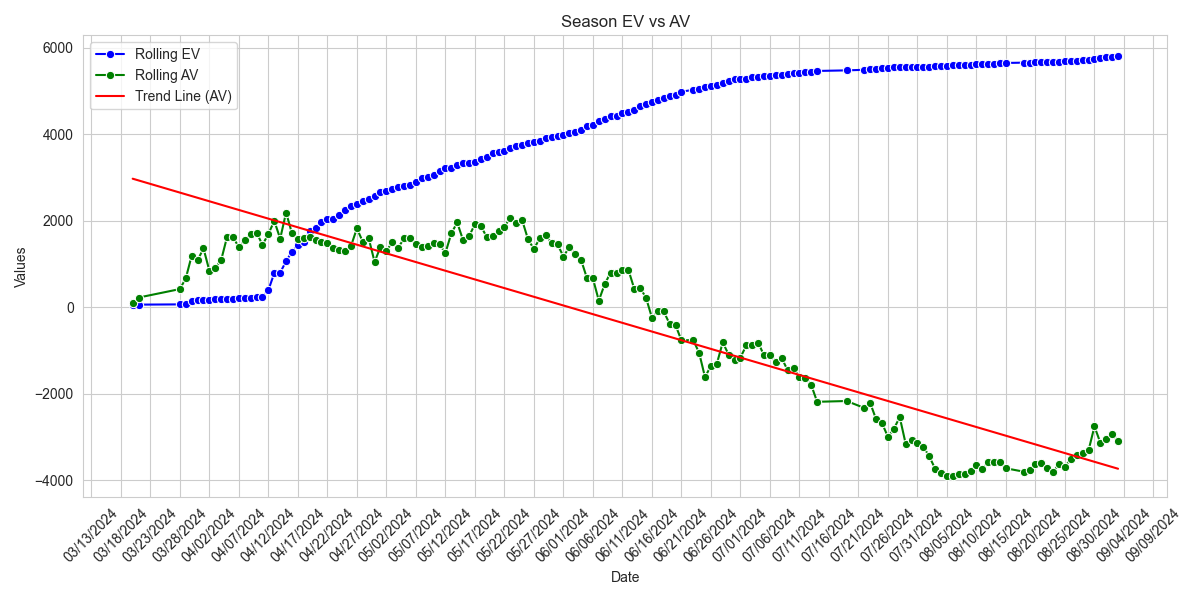
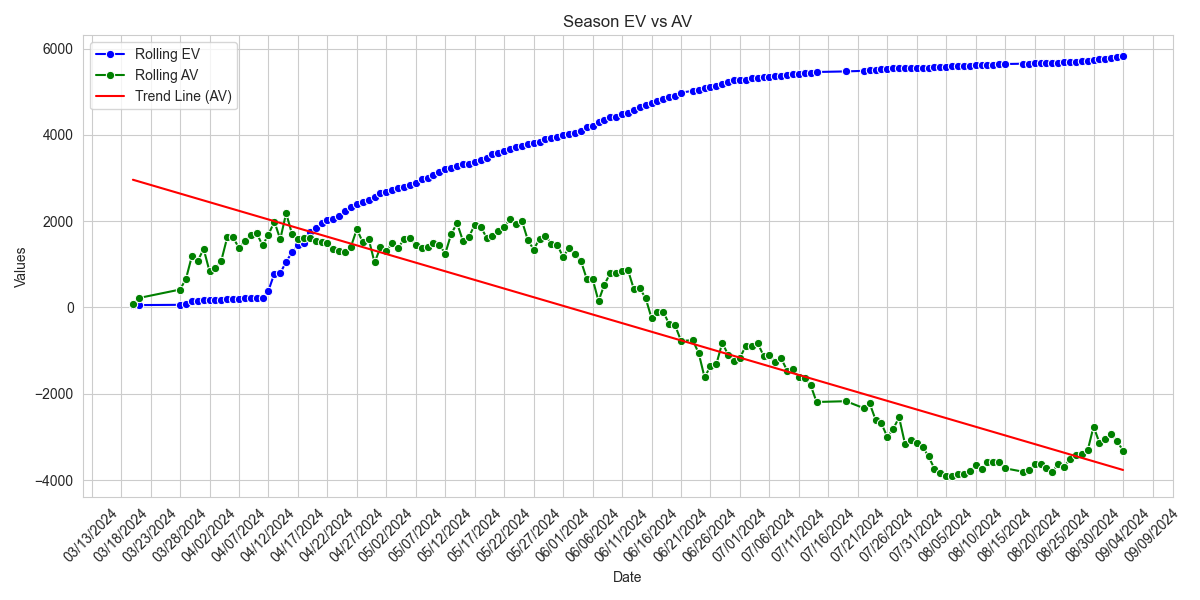
web

diff --git a/index.html b/index.html
@@ -1,1 +1,1 @@
-<html><head><meta name="viewport" content="width=device-width, initial-scale=1"><meta http-equiv="Cache-Control" content="no-cache, no-store, must-revalidate"><meta http-equiv="Pragma" content="no-cache"><meta http-equiv="Expires" content="0"><title>MLB Shit</title><link rel="stylesheet" type="text/css" href="styles.css"></head><body><p><b>Daily Picks</b></p><table><tr><th>Date</th><th>Team</th><th>Price</th><th>Bet</th><th>Win</th><th>WP</th><th>EV</th><th>Type</th><th>Result</th></tr><tr><td>09/04/2024</td><td><img src='https://www.mlbstatic.com/team-logos/143.svg' height=30 width=30></td><td>-130</td><td>$91.00</td><td>$70.00</td><td>59.2%</td><td>4.3%</td><td>Fav</td><td></td></td><tr><td>09/04/2024</td><td><img src='https://www.mlbstatic.com/team-logos/142.svg' height=30 width=30></td><td>-115</td><td>$82.25</td><td>$71.52</td><td>54.4%</td><td>1.4%</td><td>Fav</td><td></td></td><tr><td>09/04/2024</td><td><img src='https://www.mlbstatic.com/team-logos/147.svg' height=30 width=30></td><td>-110</td><td>$89.25</td><td>$81.14</td><td>57.4%</td><td>8.6%</td><td>Fav</td><td></td></td><tr><td>09/04/2024</td><td><img src='https://www.mlbstatic.com/team-logos/119.svg' height=30 width=30></td><td>-198</td><td>$109.50</td><td>$55.30</td><td>68.9%</td><td>4.0%</td><td>Fav</td><td></td></td><tr><td>09/04/2024</td><td><img src='https://www.mlbstatic.com/team-logos/116.svg' height=30 width=30></td><td>+160</td><td>$59.75</td><td>$95.60</td><td>39.0%</td><td>0.8%</td><td>Dog</td><td></td></td><tr><th colspan=9><B>SUMMARY: $431.75 in play to win $373.56</B></th></tr><tr><th colspan=9><B>LAST UPDATED: 09/04/2024 08:31 AM</B></th></tr></table><p><b>Monthly Totals</b></p><table><tr><th>Date</th><th>Profit</th><th>W/L</th><th>Favs</th><th>Dogs</th><th>Fav $</th><th>Dog $</th></tr><tr><td>09/01/2024</td><td>$81.67</td><td>4-2</td><td>4-1</td><td>0-1</td><td>$157.67</td><td>$-76.00</td></td><tr><td>09/02/2024</td><td>$129.65</td><td>2-0</td><td>2-0</td><td>0</td><td>$129.65</td><td>$0.00</td></td><tr><td>09/03/2024</td><td>$-177.96</td><td>3-5</td><td>1-1</td><td>2-4</td><td>$-40.36</td><td>$-137.60</td></td><tr><th colspan=7>TOTALS</th></tr><tr><th colspan=2>Monthly Profit</th><th colspan=2>W%</th><th>Fav W%</th><th>Dog W%</th><th>Predicted Upset W%</th></tr><tr><td colspan=2>$33.36</td><td colspan=2>56.2%</td><td>77.8%</td><td>28.6%</td><td>33.3%</td></tr></table><p><b>Season Totals</b></p><table width="30%"><tr><th width="25%">Month</th><th width="25%">Profit</th><th width="25%" colspan=2>Bankroll Growth</th></tr><tr><td>March</td><td>$1,077.72</td><td colspan=2>13.4715%</td></td><tr><td>April</td><td>$-35.26</td><td colspan=2>-0.44075%</td></td><tr><td>May</td><td>$410.27</td><td colspan=2>5.128375%</td></td><tr><td>June</td><td>$-2,683.52</td><td colspan=2>-33.544%</td></td><tr><td>July</td><td>$-1,918.74</td><td colspan=2>-23.98425%</td></td><tr><td>August</td><td>$11.53</td><td colspan=2>0.144125%</td></td><tr><td>September</td><td>$33.36</td><td colspan=2>0.417%</td></td><tr><td><b><i>TOTAL</i></b></td><td><b><i>$-3,104.64</i></b></td><td colspan=2><b><i>-38.808%</i></b></td></td><tr><th colspan=4>Performance</th></tr><tr><th>Season W%</th><th>Fav W%</th><th>Dog W%</th><th>Predicted Upset W%</th></tr><tr><td>51.0%</td><td>57.1%</td><td>45.1%</td><td>48.1%</td></tr></table><p><table><tr><td><img class="chart" src="images/ev_graph.png"></td></tr></table></p></body></html>
+<html><head><meta name="viewport" content="width=device-width, initial-scale=1"><meta http-equiv="Cache-Control" content="no-cache, no-store, must-revalidate"><meta http-equiv="Pragma" content="no-cache"><meta http-equiv="Expires" content="0"><title>MLB Shit</title><link rel="stylesheet" type="text/css" href="styles.css"></head><body><p><b>Daily Picks</b></p><table><tr><th>Date</th><th>Team</th><th>Price</th><th>Bet</th><th>Win</th><th>WP</th><th>EV</th><th>Type</th><th>Result</th></tr><tr><td>09/05/2024</td><td><img src='https://www.mlbstatic.com/team-logos/142.svg' height=30 width=30></td><td>-142</td><td>$91.25</td><td>$64.26</td><td>59.7%</td><td>1.6%</td><td>Fav</td><td></td></td><tr><td>09/05/2024</td><td><img src='https://www.mlbstatic.com/team-logos/109.svg' height=30 width=30></td><td>+130</td><td>$68.50</td><td>$89.05</td><td>45.0%</td><td>2.4%</td><td>Dog</td><td></td></td><tr><td>09/05/2024</td><td><img src='https://www.mlbstatic.com/team-logos/143.svg' height=30 width=30></td><td>-238</td><td>$114.25</td><td>$48.00</td><td>71.5%</td><td>1.8%</td><td>Fav</td><td></td></td><tr><td>09/05/2024</td><td><img src='https://www.mlbstatic.com/team-logos/120.svg' height=30 width=30></td><td>+100</td><td>$75.25</td><td>$75.25</td><td>50.2%</td><td>0.3%</td><td>Dog</td><td></td></td><tr><td>09/05/2024</td><td><img src='https://www.mlbstatic.com/team-logos/108.svg' height=30 width=30></td><td>+145</td><td>$66.00</td><td>$95.70</td><td>43.1%</td><td>3.7%</td><td>Dog</td><td></td></td><tr><th colspan=9><B>SUMMARY: $415.25 in play to win $372.26</B></th></tr><tr><th colspan=9><B>LAST UPDATED: 09/05/2024 08:48 AM</B></th></tr></table><p><b>Monthly Totals</b></p><table><tr><th>Date</th><th>Profit</th><th>W/L</th><th>Favs</th><th>Dogs</th><th>Fav $</th><th>Dog $</th></tr><tr><td>09/01/2024</td><td>$81.67</td><td>4-2</td><td>4-1</td><td>0-1</td><td>$157.67</td><td>$-76.00</td></td><tr><td>09/02/2024</td><td>$129.65</td><td>2-0</td><td>2-0</td><td>0</td><td>$129.65</td><td>$0.00</td></td><tr><td>09/03/2024</td><td>$-177.96</td><td>3-5</td><td>1-1</td><td>2-4</td><td>$-40.36</td><td>$-137.60</td></td><tr><td>09/04/2024</td><td>$-212.67</td><td>3-5</td><td>2-4</td><td>1-1</td><td>$-231.17</td><td>$18.50</td></td><tr><th colspan=7>TOTALS</th></tr><tr><th colspan=2>Monthly Profit</th><th colspan=2>W%</th><th>Fav W%</th><th>Dog W%</th><th>Predicted Upset W%</th></tr><tr><td colspan=2>$-179.31</td><td colspan=2>50.0%</td><td>60.0%</td><td>33.3%</td><td>50.0%</td></tr></table><p><b>Season Totals</b></p><table width="30%"><tr><th width="25%">Month</th><th width="25%">Profit</th><th width="25%" colspan=2>Bankroll Growth</th></tr><tr><td>March</td><td>$1,077.72</td><td colspan=2>13.4715%</td></td><tr><td>April</td><td>$-35.26</td><td colspan=2>-0.44075%</td></td><tr><td>May</td><td>$410.27</td><td colspan=2>5.128375%</td></td><tr><td>June</td><td>$-2,683.52</td><td colspan=2>-33.544%</td></td><tr><td>July</td><td>$-1,918.74</td><td colspan=2>-23.98425%</td></td><tr><td>August</td><td>$11.53</td><td colspan=2>0.144125%</td></td><tr><td>September</td><td>$-179.31</td><td colspan=2>-2.241375%</td></td><tr><td><b><i>TOTAL</i></b></td><td><b><i>$-3,317.31</i></b></td><td colspan=2><b><i>-41.466375%</i></b></td></td><tr><th colspan=4>Performance</th></tr><tr><th>Season W%</th><th>Fav W%</th><th>Dog W%</th><th>Predicted Upset W%</th></tr><tr><td>50.9%</td><td>56.9%</td><td>45.2%</td><td>48.3%</td></tr></table><p><table><tr><td><img class="chart" src="images/ev_graph.png"></td></tr></table></p></body></html>
